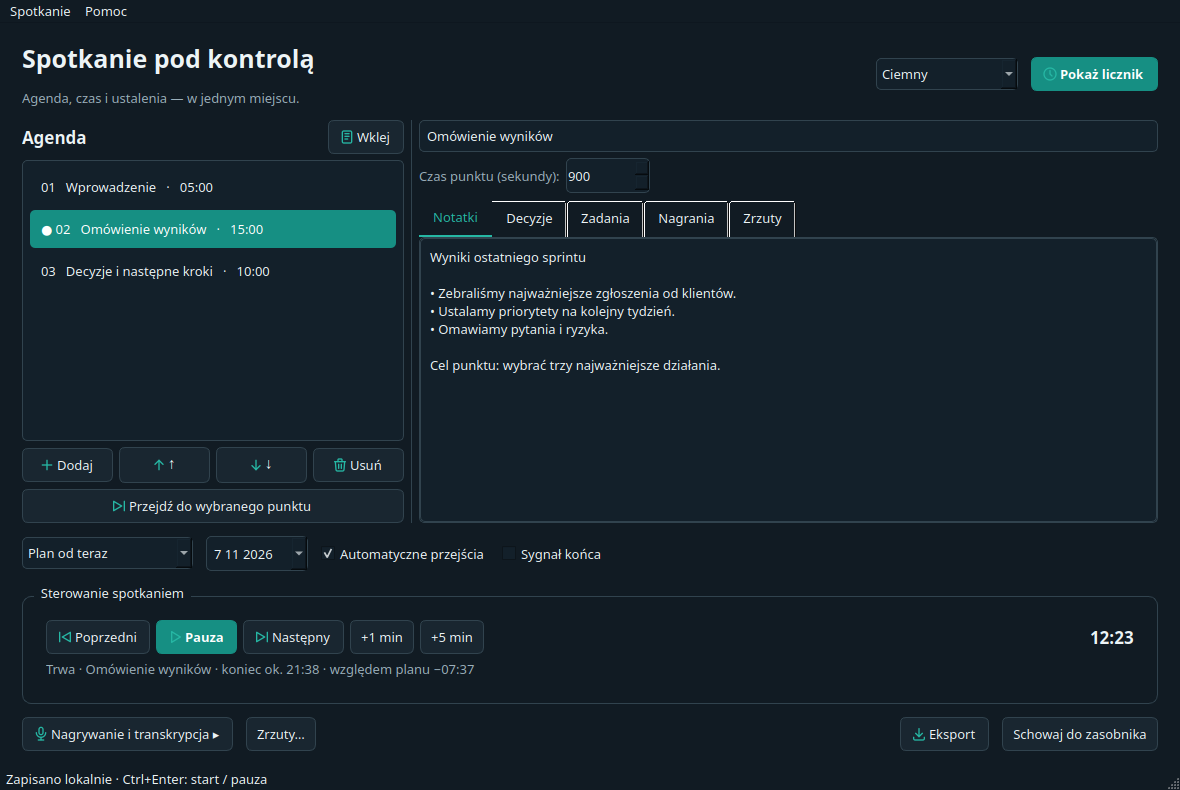
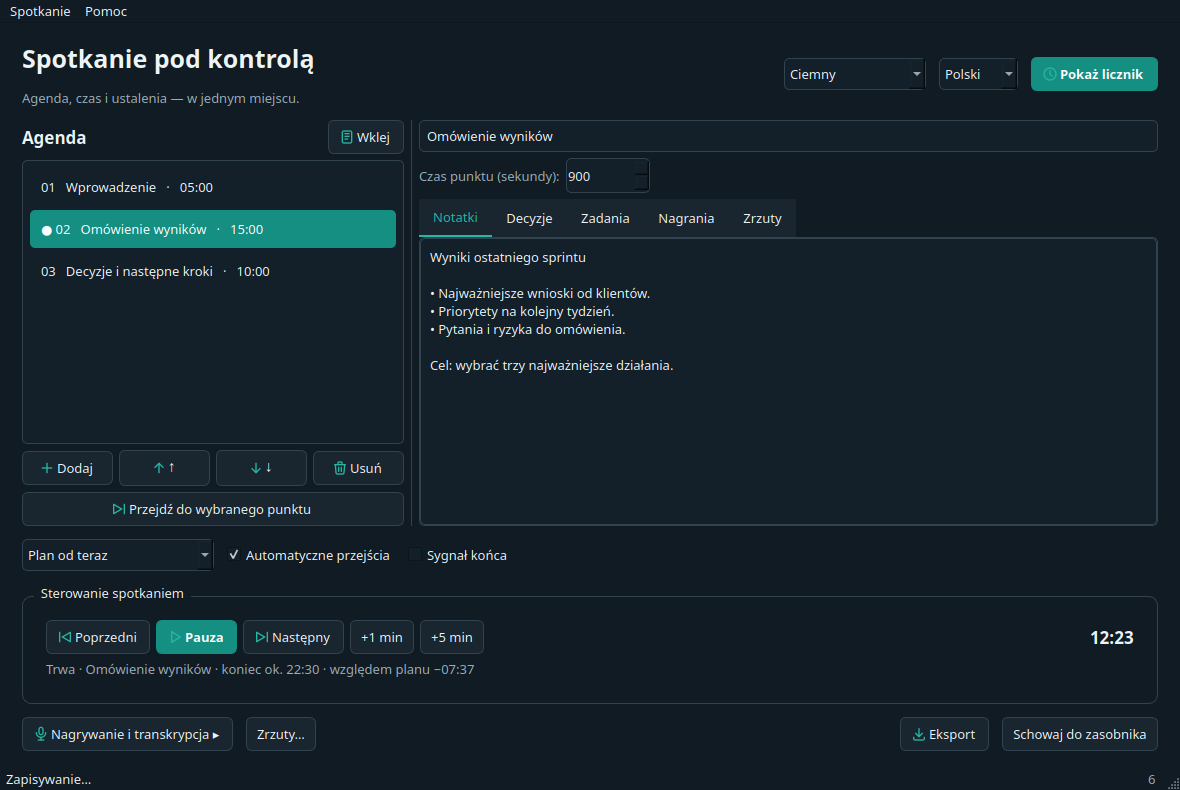
docs: opisz zweryfikowane paczki trzech systemów i pomiary wersji 6

diff --git a/docs/VALIDATION.md b/docs/VALIDATION.md
@@ -17,35 +17,48 @@ platform na podstawie samego kodu lub konfiguracji CI.
 - API sprawdzono na atrapach, w tym kody błędów, anulowanie przed wysyłką,
   limit i strumieniowanie. Nie użyto rzeczywistego klucza ani płatnego żądania.
 
-## Pomiary lokalne (wcześniejszy prototyp przed ostatnimi zmianami UI)
+## Pomiary lokalne — wersja 6
 
 Linux x86_64 / XFCE / X11. Paczka uruchomiona z tymczasowego katalogu danych,
 poza źródłami i bez venv. Pomiar procesu przez /proc, 10 s spoczynku po starcie,
-z ciepłą pamięcią podręczną. Nie jest to pomiar godzinnej sesji/audio/API.
+z ciepłą pamięcią podręczną. Do katalogu testowego wpisano syntetyczną akceptację
+warunków, aby mierzyć sam start panelu; nie zmieniano zgody użytkownika.
+Nie jest to pomiar godzinnej sesji/audio/API ani szczytu pamięci podczas startu.
 
 | Wariant | Start | RAM RSS | CPU jednego rdzenia | Rozpakowana paczka |
 | --- | --- | --- | --- | --- |
-| Core | 0,42 s | 83,7 MiB | 0,6% | 148,9 MiB |
-| Full | 0,28 s | 95,3 MiB | 0,7% | 251,0 MiB |
+| Core | 0,34 s | 91,8 MiB | 0,7% | 149,6 MiB |
+| Full | 0,42 s | 99,7 MiB | 0,6% | 269,4 MiB |
 
-Paczki obu wariantów przeszły diagnostykę GUI, PDF i modułów poza źródłami.
-Po dodaniu języków, warunków i ostatnich poprawek paczki wymagają ponownego
-zbudowania. CI oraz aktualne artefakty: https://github.com/nocnystroz/licznik-spotkaniowy/actions.
+Cele rdzenia start/RAM/CPU/rozmiar spełnione na tym hoście. Full ma większą
+paczkę przez audio, NumPy i Qt Multimedia; nie przypisujemy mu wyniku core.
+Paczki obu wariantów przeszły diagnostykę GUI, PDF, języków, zasobów warunków
+oraz modułów poza katalogiem źródeł i bez venv.
 
 Na rzeczywistym pulpicie Linux potwierdzono włączanie/wyłączanie stanu ABOVE,
 minimalizację, schowanie do zasobnika i przywrócenie. Po poprawkach wykryto
 2 mikrofony i 4 źródła loopback (listy zawierają też opcję braku wyboru),
 a kompaktowy licznik miał rzeczywiste wymiary 260 × 138 px.
 
+## CI trzech systemów
+
+[Przebieg dla wersji 6](https://github.com/nocnystroz/licznik-spotkaniowy/actions/runs/42414000793)
+zakończył się sukcesem dla wszystkich trzech zadań:
+
+- Windows x64: testy, ZIP bez instalatora i uruchomienie spakowanego GUI.
+- macOS ARM64: testy, archiwum .app i uruchomienie spakowanego GUI.
+- Ubuntu 22.04 x64: testy, tar.gz i uruchomienie spakowanego GUI.
+
+Każdy wariant przeszedł 77 testów źródeł oraz diagnostykę frozen poza źródłami.
+Macierz korzysta z Pythona 3.13; wersja patch może różnić się od lokalnej.
+Nie oznacza to testu fizycznego mikrofonu, prawdziwego API, platformowych
+uprawnień ani każdego środowiska graficznego. Te elementy pozostają otwarte.
+Pierwszy przebieg wykrył problem wyrównania OpenBLAS po strip na Ubuntu;
+pełna paczka Linux zachowuje teraz oryginalne biblioteki i przeszła ponowny test.
+
 ## Otwarte
 
-Pierwszy CI dla commita e412af9: testy i budowanie Windows/macOS zakończyły się
-powodzeniem, włącznie z diagnostyką spakowanego GUI. Linux przeszedł testy
-źródeł i budowanie, lecz diagnostyka wykryła uszkodzone wyrównanie ELF biblioteki
-OpenBLAS po strip. W poprawce pełna paczka Linux zachowuje oryginalne binaria;
-ponowna weryfikacja jest uruchamiana. Wariant core nadal może stosować strip.
-
-- Rzeczywiste testy Windows/macOS, urządzeń audio, klucza i uprawnień.
+- Rzeczywiste testy urządzeń audio, klucza API i uprawnień na fizycznym Windows/macOS.
 - Wayland, wiele monitorów/DPI i zamykanie/minimalizacja przechwytywanego okna.
 - Godzinna sesja z nagrywaniem oraz długie notatki i brak miejsca na dysku.
 - Paczki na czystych systemach bez Pythona/Qt i kompletność zależności natywnych.

diff --git a/README.md b/README.md
@@ -6,9 +6,10 @@ Lokalna aplikacja desktopowa do prowadzenia spotkań według agendy. Osobny
 licznik pokazuje bieżący punkt i pozostały czas, a panel prowadzącego pozwala
 zapisywać notatki, decyzje i zadania.
 
-**Prototyp do testów — wersja aplikacji to numer commita (liczba commitów w historii HEAD).** Działa lokalnie na Linux X11. Kod i skrypty
-budowania obejmują Windows i macOS, ale tych platform nie przetestowano jeszcze
-na rzeczywistych urządzeniach. Szczegóły: [ROADMAP.md](ROADMAP.md)
+**Prototyp do testów — wersja aplikacji to numer commita (liczba commitów w historii HEAD).** Testy, budowanie oraz uruchomienie paczek przeszły w CI na Windows, macOS
+i Linux. Dodatkowo sprawdzono pulpit Linux X11. Mikrofony, uprawnienia
+i przechwytywanie obrazu na fizycznych komputerach Windows/macOS wymagają
+dalszych testów. Szczegóły: [ROADMAP.md](ROADMAP.md)
 i [docs/VALIDATION.md](docs/VALIDATION.md).
 
 ## Uruchomienie bez instalatora
@@ -23,8 +24,10 @@ Paczka zawiera interpreter i biblioteki. Nie wymaga instalowania Pythona,
 pip ani venv. Nie przenoś samego pliku wykonywalnego bez towarzyszących bibliotek.
 Lokalne wyniki budowania znajdują się w `dist/` i nie są commitowane.
 Kod: https://github.com/nocnystroz/licznik-spotkaniowy
-Paczki: zakładka Actions → udane budowanie → Artifacts. Wyniki Windows/macOS
-pozostają do potwierdzenia do czasu ukończenia odpowiedniego zadania CI.
+Paczki do pobrania: [wydania testowe](https://github.com/nocnystroz/licznik-spotkaniowy/releases).
+Dodatkowo: Actions → udane budowanie → Artifacts. Dostępne cele:
+Windows x64, macOS Apple Silicon (ARM64), Linux x86_64. Intel Mac i Windows ARM
+nie mają osobnego artefaktu w obecnej macierzy.
 
 Wariant **core** zawiera licznik, notatki, eksport, transkrypcję plików
 skompresowanych oraz zrzuty całego ekranu. Wariant **full** dodaje nagrywanie,
@@ -97,6 +100,7 @@ Nierozpoznane wiersze wymagają poprawy — nie są pomijane.
 
 - **Start o wskazanej godzinie**: ustaw datę i godzinę dla całego planu; licznik
   czeka do tego momentu. To działa także z agendą zawierającą same czasy trwania.
+  Dla startu w przeszłości uwzględnia już upłynięty czas.
 - **Plan od teraz**: czas biegnie po naciśnięciu Rozpocznij.
 - **Według godzin agendy**: wybierz datę pierwszego punktu; późny start pomija
   upłynięte punkty, a przerwy i oczekiwanie są widoczne w liczniku.
@@ -223,3 +227,12 @@ Bez zaznaczenia zgody nie otworzy się panel. Zmiana warunków powoduje ponowne
 pytanie. Pomoc zawiera warunki, MIT, politykę prywatności i link wsparcia.
 
 [☕ Postaw mi kawę / Buy me a coffee](https://buymeacoffee.com/m.slawinski)
+
+
+## Podgląd
+
+![Panel prowadzącego](docs/screenshots/panel.png)
+
+Widok kompaktowy:
+
+![Kompaktowy licznik](docs/screenshots/licznik.png)

diff --git a/ROADMAP.md b/ROADMAP.md
@@ -134,8 +134,8 @@
 ## 9. Wydania bez instalatora
 
 - [x] Przygotować budowanie paczek z dołączonym Pythonem i Qt.
-- [ ] Windows: przenośny ZIP z programem `.exe`, bez instalatora.
-- [ ] macOS: przenośna aplikacja `.app` w archiwum.
+- [x] Windows: przenośny ZIP z programem `.exe`, bez instalatora.
+- [x] macOS: przenośna aplikacja `.app` w archiwum.
 - [ ] Linux: przenośna paczka z plikiem uruchamiającym i bibliotekami;
       jawnie określić wspierane dystrybucje/bazę systemową.
 - [ ] Określić wspierane architektury i budować każdą paczkę na właściwej platformie.
@@ -192,9 +192,8 @@ Lekkość potwierdzają pomiary, nie samo użycie natywnych kontrolek.
 - [x] Kompaktowy licznik ok. 260 × 138 px z podstawowymi akcjami i pełnym widokiem.
 - [x] Wersja z numeru commita w oknach i pasku stanu, metadane w paczce.
 - [x] Polski, angielski, niemiecki i francuski, wybór i zapamiętanie języka.
-- [x] Utworzyć publiczne repozytorium GitHub z opisem; wysyłka aktualnego kodu
-      i uruchomienie CI następuje po tym commicie.
-- [ ] Uruchomić CI i zbudować pozostałe paczki na właściwych systemach.
+- [x] Publiczne repozytorium GitHub z opisem, aktualnym kodem i uruchomionym CI.
+- [x] Uruchomić CI i zbudować pozostałe paczki na właściwych systemach.
 
 ## Aktualny stan i ograniczenia weryfikacji
 
@@ -205,8 +204,9 @@ Lekkość potwierdzają pomiary, nie samo użycie natywnych kontrolek.
 - API testowano z atrapami HTTP. Rzeczywisty test wymaga klucza użytkownika.
 - Zrzut osobnego okna testowego na Linux X11 działa. macOS/Windows nie były
   tutaj uruchamiane. Konfiguracja CI nie jest dowodem wykonania tych testów.
-- Budowanie i pomiary lokalnej paczki Linux są w trakcie; szczegóły wyników
-  trafią do `docs/VALIDATION.md`.
+- Core/full Linux zbudowane i sprawdzone; pomiary w `docs/VALIDATION.md`.
+- Windows x64, macOS ARM64 i Linux x64 przeszły testy, budowanie i diagnostykę
+  paczki w CI dla wersji 6. Testy rzeczywistych urządzeń pozostają otwarte.
 
 
 ## 13. Urządzenia, harmonogram i warunki
@@ -218,4 +218,8 @@ Lekkość potwierdzają pomiary, nie samo użycie natywnych kontrolek.
 - [x] Warunki w 4 językach, checkbox wymagany przy pierwszym uruchomieniu,
       lokalna wersjonowana akceptacja oraz ponowne pytanie po zmianie treści.
 - [x] Pomoc: warunki, MIT, prywatność i zweryfikowany link Buy me a coffee.
-- [ ] Potwierdzić ukończenie budowania Windows i macOS w Actions, podać artefakty.
+- [x] Potwierdzić ukończenie budowania Windows i macOS w Actions, podać artefakty.
+
+Gotowe artefakty i wyniki: https://github.com/nocnystroz/licznik-spotkaniowy/actions/runs/42414000793.
+Pomiar wersji 6: core 149,6 MiB na dysku, 91,8 MiB RAM, start 0,34 s;
+full 269,4 MiB na dysku, 99,7 MiB RAM, start 0,42 s (Linux, krótki pomiar).
